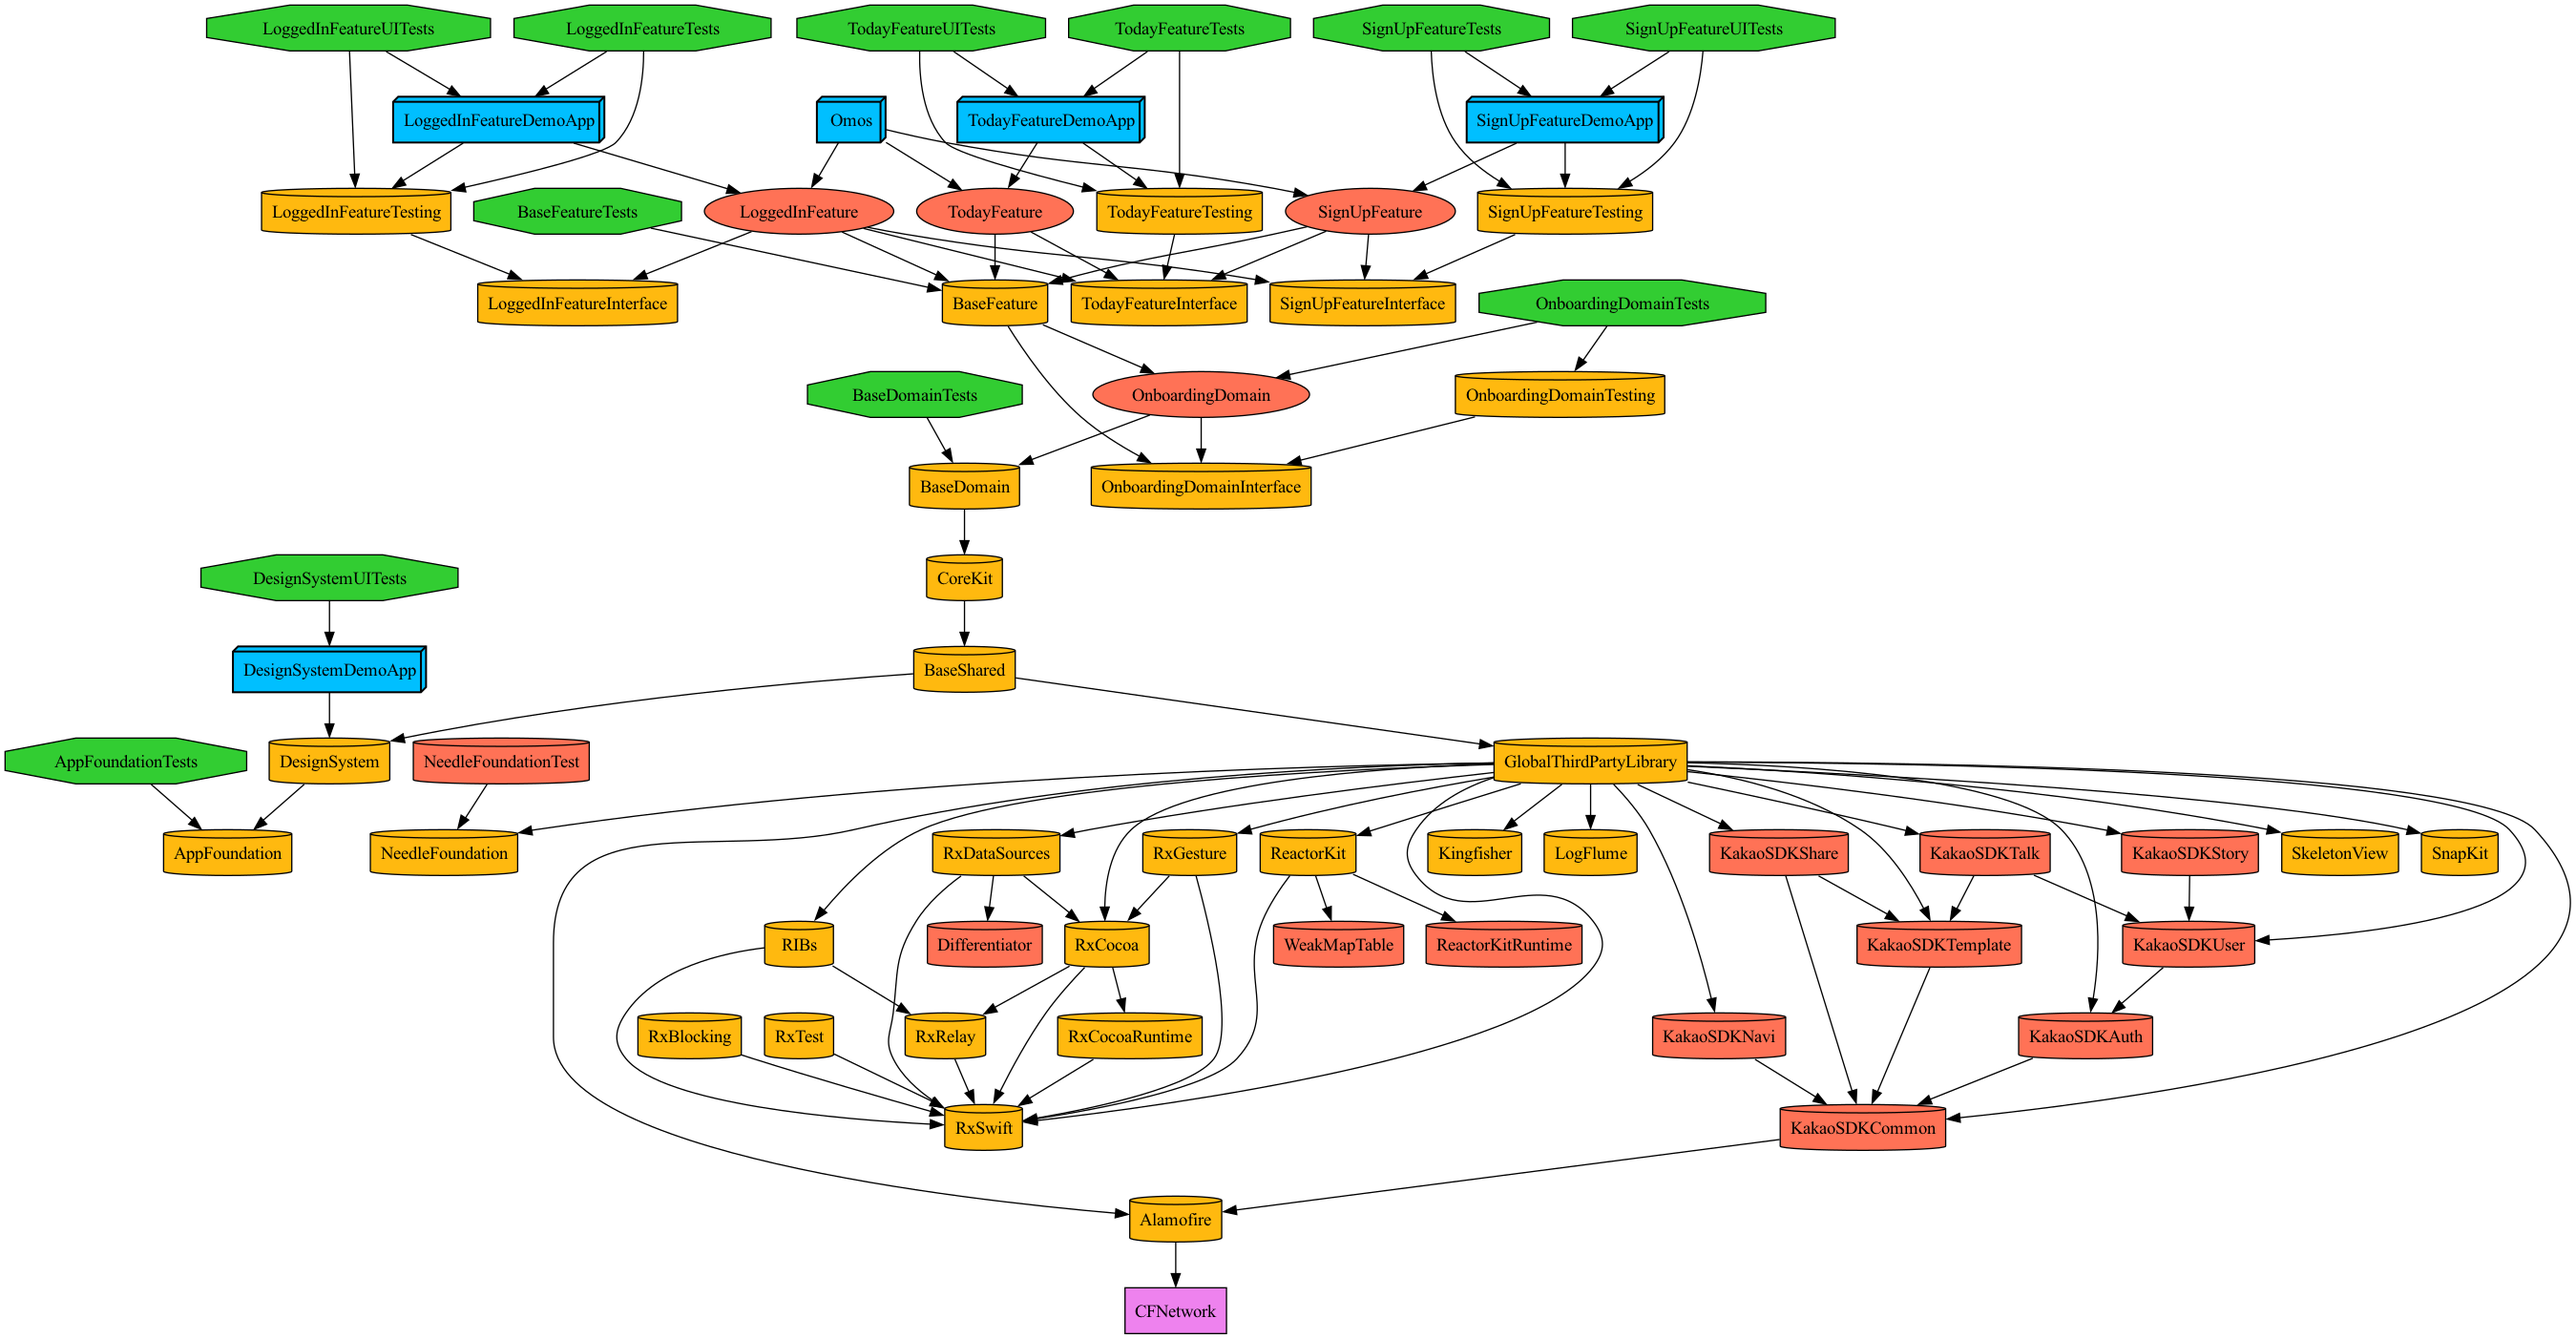
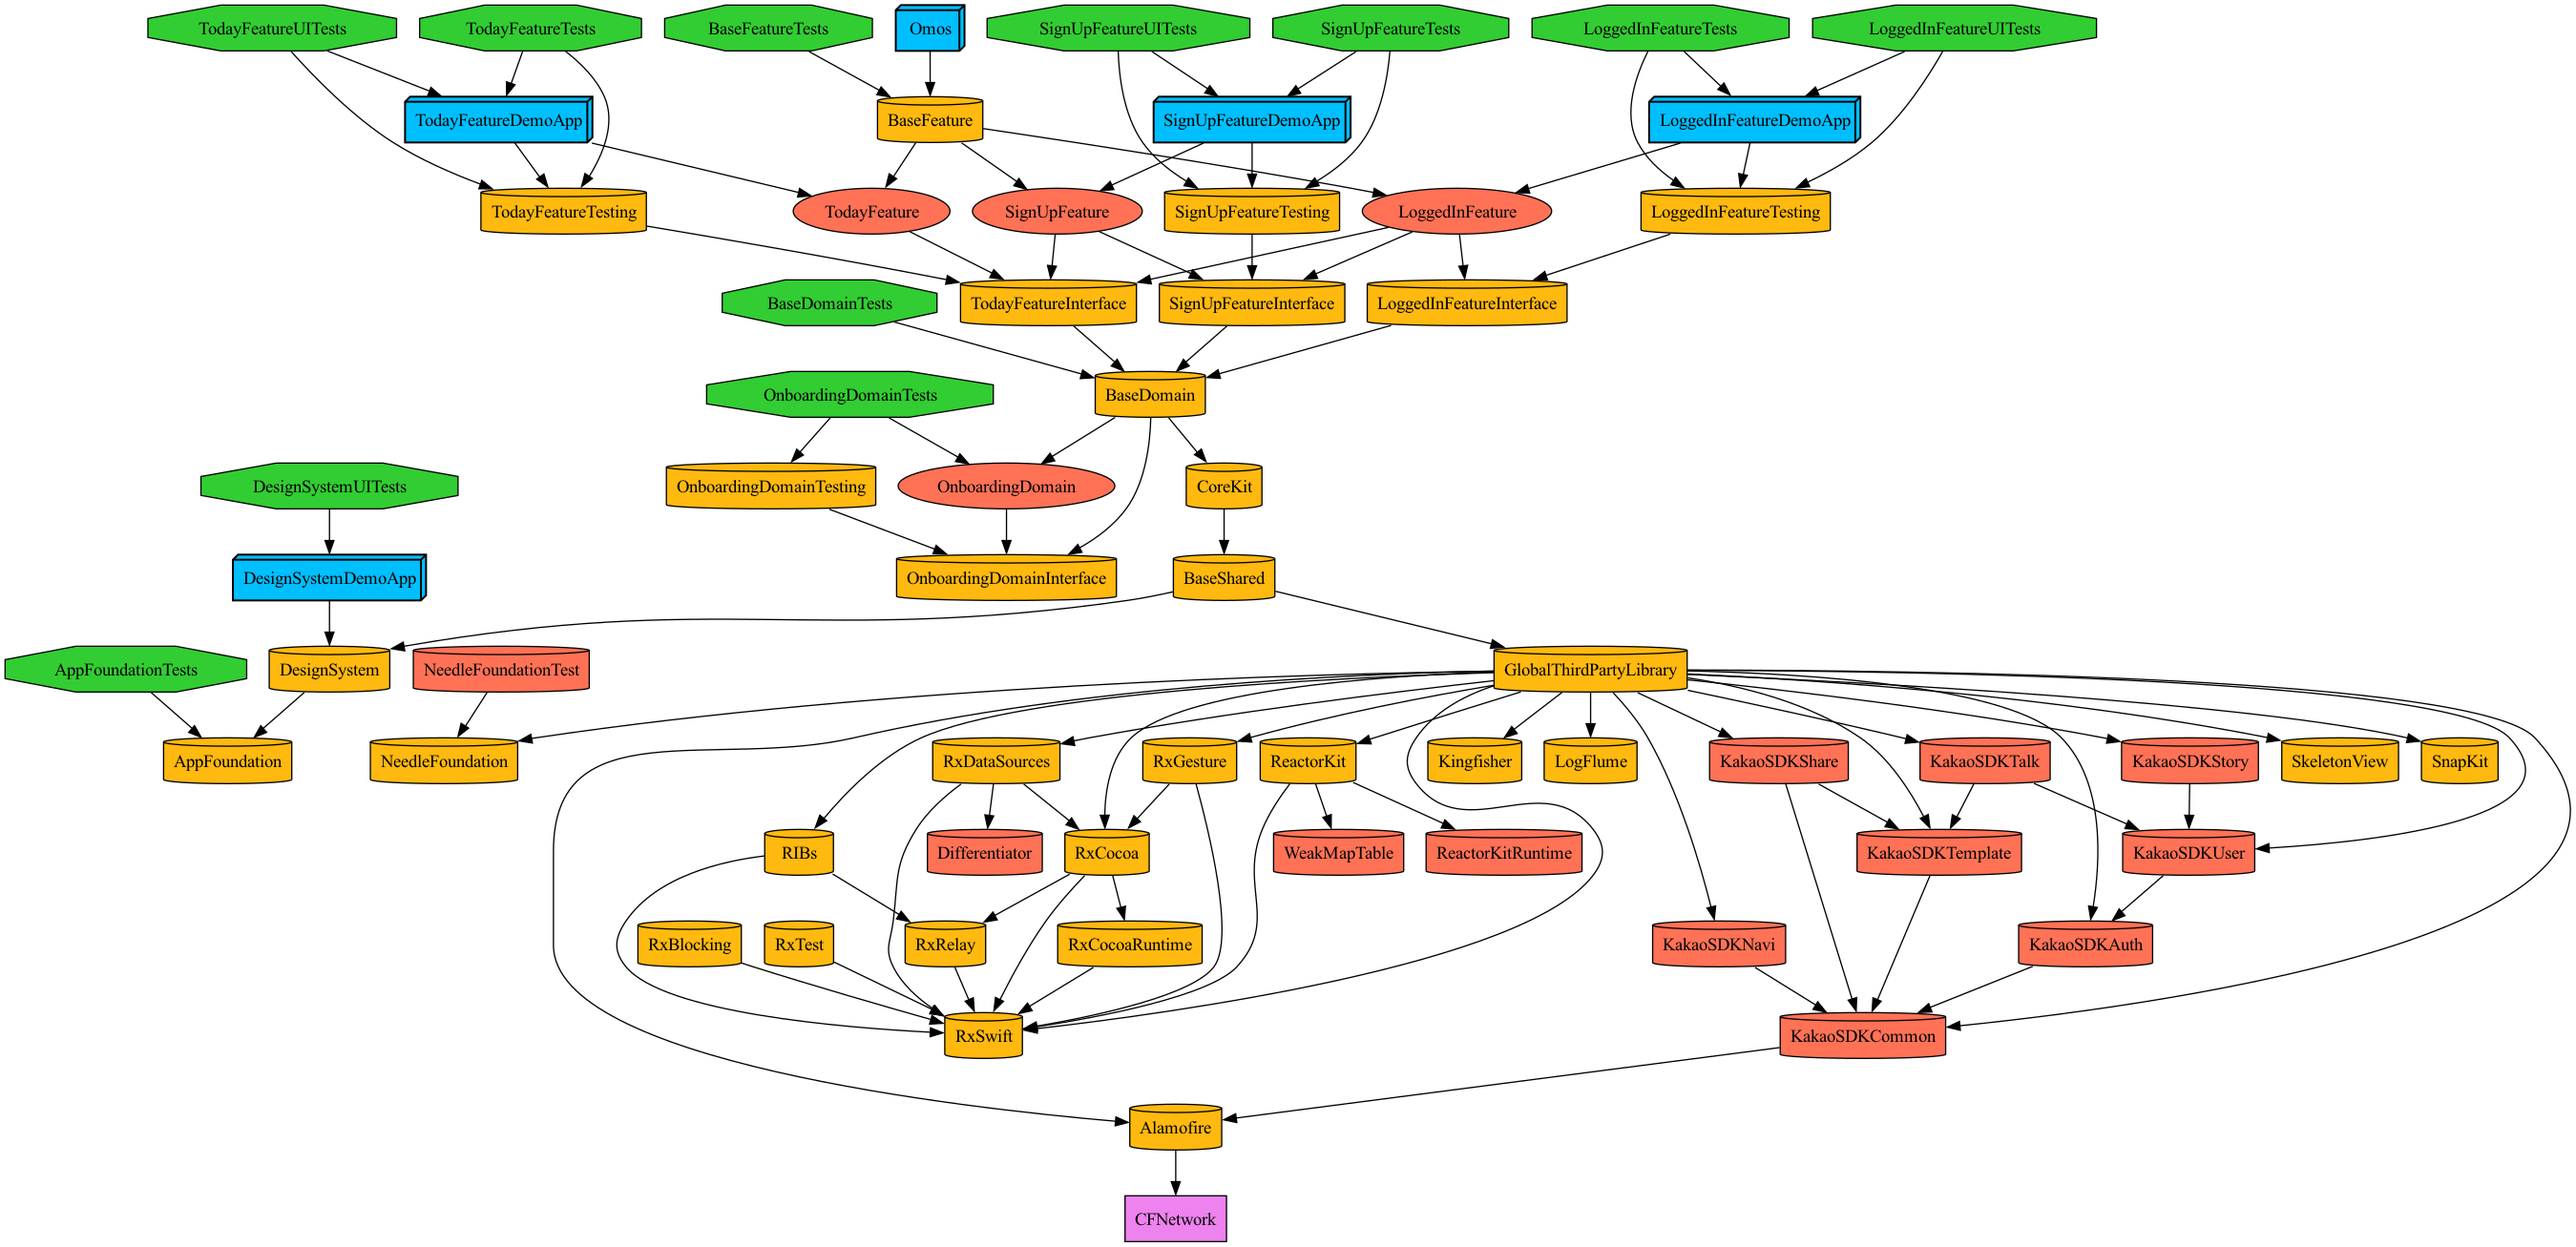
[v1.0.0][ 🛠 - Module: 모듈간 의존성 변경   ]
그래프 변경

diff --git a/Projects/Feature/LoggedInFeature/Project.swift b/Projects/Feature/LoggedInFeature/Project.swift
@@ -7,8 +7,10 @@ let project = Project.makeModule(
     product: .staticLibrary,
     targets: [.testing, .interface, .unitTest, .uiTest, .demo],
     internalDependencies: [
-        .feature(target: .BaseFeature),
         .feature(target: .SignUpFeature, type: .interface),
         .feature(target: .TodayFeature, type: .interface)
+    ],
+    interfaceDependencies: [
+        .domain(target: .BaseDomain)
     ]
 )

diff --git a/Projects/Feature/BaseFeature/Project.swift b/Projects/Feature/BaseFeature/Project.swift
@@ -7,7 +7,8 @@ let project = Project.makeModule(
     product: .framework,
     targets: [.unitTest],
     internalDependencies: [
-        .domain(target: .OnboardingDomain, type: .sources),
-        .domain(target: .OnboardingDomain, type: .interface)
+        .feature(target: .LoggedInFeature),
+        .feature(target: .SignUpFeature),
+        .feature(target: .TodayFeature)
     ]
 )

diff --git a/Projects/App/Project.swift b/Projects/App/Project.swift
@@ -35,9 +35,7 @@ let targets: [Target] = [
         resources: ["Resources/**"],
         scripts: scripts,
         dependencies: [
-            .feature(target: .LoggedInFeature),
-            .feature(target: .SignUpFeature),
-            .feature(target: .TodayFeature)
+            .feature(target: .BaseFeature)
         ],
         settings: .settings(base: env.baseSetting)
     )

diff --git a/Projects/Feature/SignUpFeature/Project.swift b/Projects/Feature/SignUpFeature/Project.swift
@@ -7,7 +7,9 @@ let project = Project.makeModule(
     product: .staticLibrary,
     targets: [.interface, .testing, .unitTest, .uiTest, .demo],
     internalDependencies: [
-        .feature(target: .BaseFeature),
         .feature(target: .TodayFeature, type: .interface)
+    ],
+    interfaceDependencies: [
+        .domain(target: .BaseDomain)
     ]
 )

diff --git a/Projects/Domain/BaseDomain/Project.swift b/Projects/Domain/BaseDomain/Project.swift
@@ -7,6 +7,8 @@ let project = Project.makeModule(
     product: .framework,
     targets: [.unitTest],
     internalDependencies: [
-        .core(target: .CoreKit)
+        .core(target: .CoreKit),
+        .domain(target: .OnboardingDomain),
+        .domain(target: .OnboardingDomain, type: .interface)
     ]
 )

diff --git a/Projects/Feature/TodayFeature/Project.swift b/Projects/Feature/TodayFeature/Project.swift
@@ -7,6 +7,9 @@ let project = Project.makeModule(
     product: .staticLibrary,
     targets: [.interface, .testing, .unitTest, .uiTest, .demo],
     internalDependencies: [
-        .feature(target: .BaseFeature)
+        
+    ],
+    interfaceDependencies: [
+        .domain(target: .BaseDomain)
     ]
 )

diff --git a/Projects/Domain/OnboardingDomain/Project.swift b/Projects/Domain/OnboardingDomain/Project.swift
@@ -6,7 +6,5 @@ let project = Project.makeModule(
     name: ModulePaths.Domain.OnboardingDomain.rawValue,
     product: .staticLibrary,
     targets: [.interface, .testing, .unitTest],
-    internalDependencies: [
-        .domain(target: .BaseDomain),
-    ]
+    internalDependencies: []
 )
